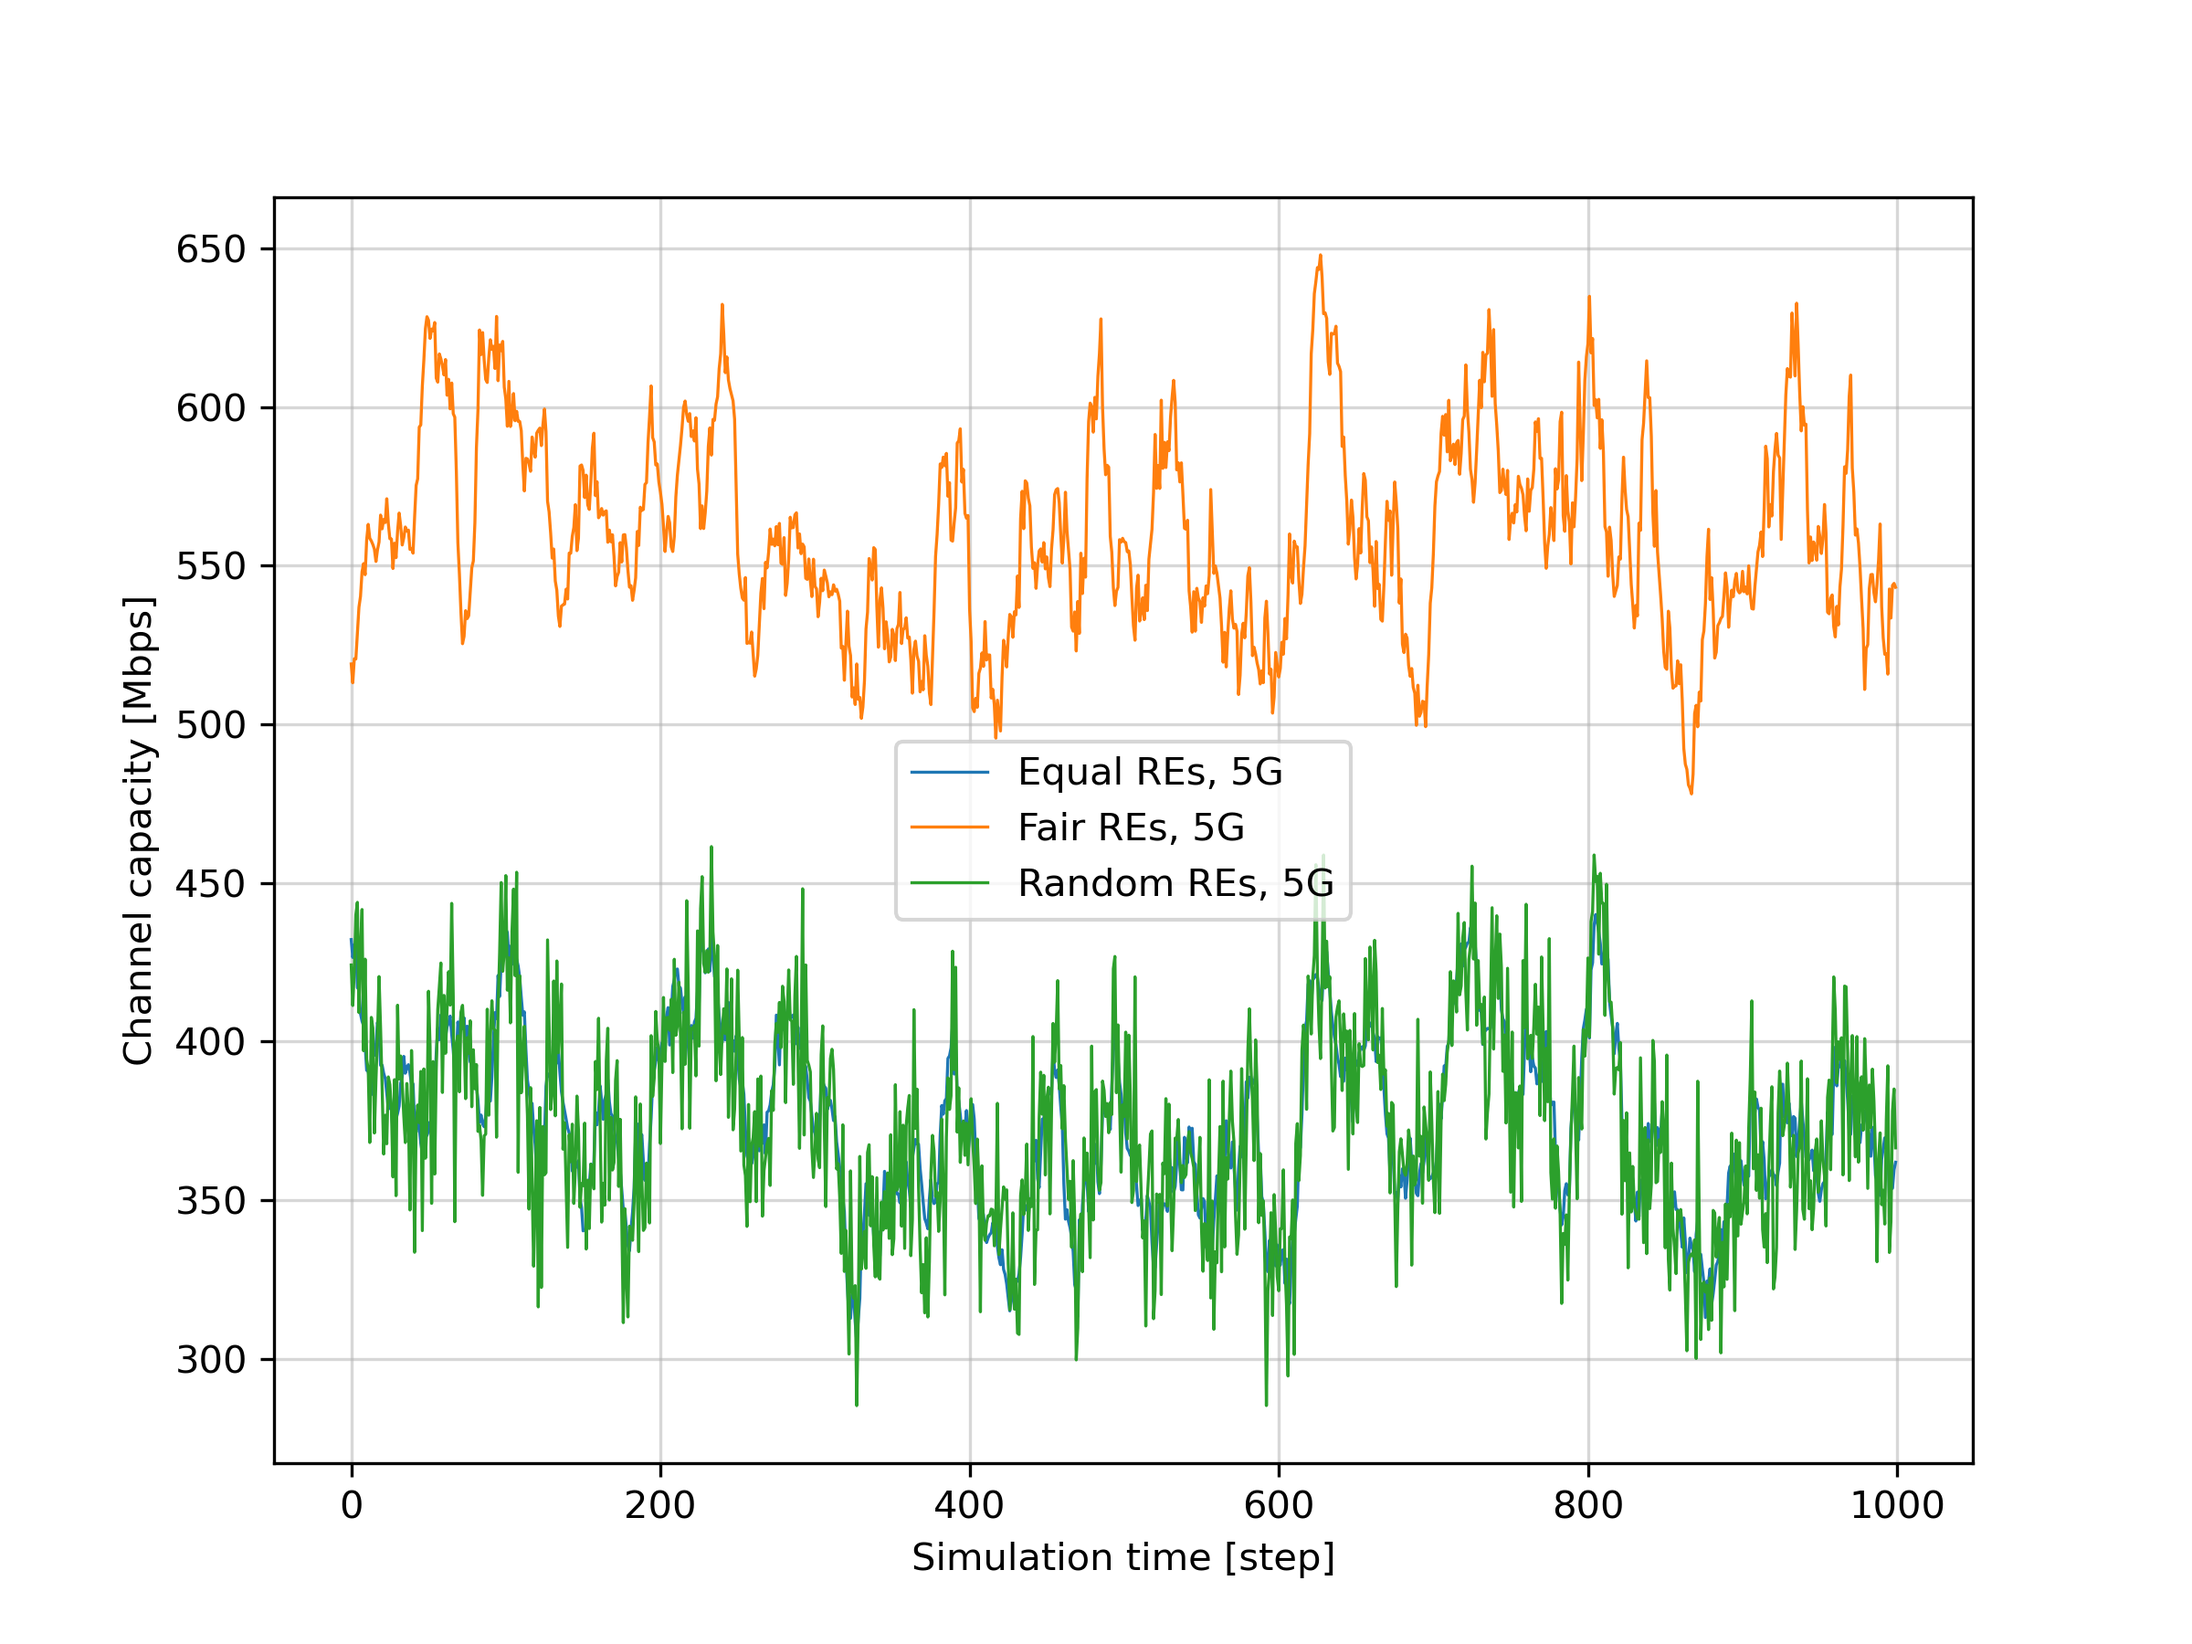
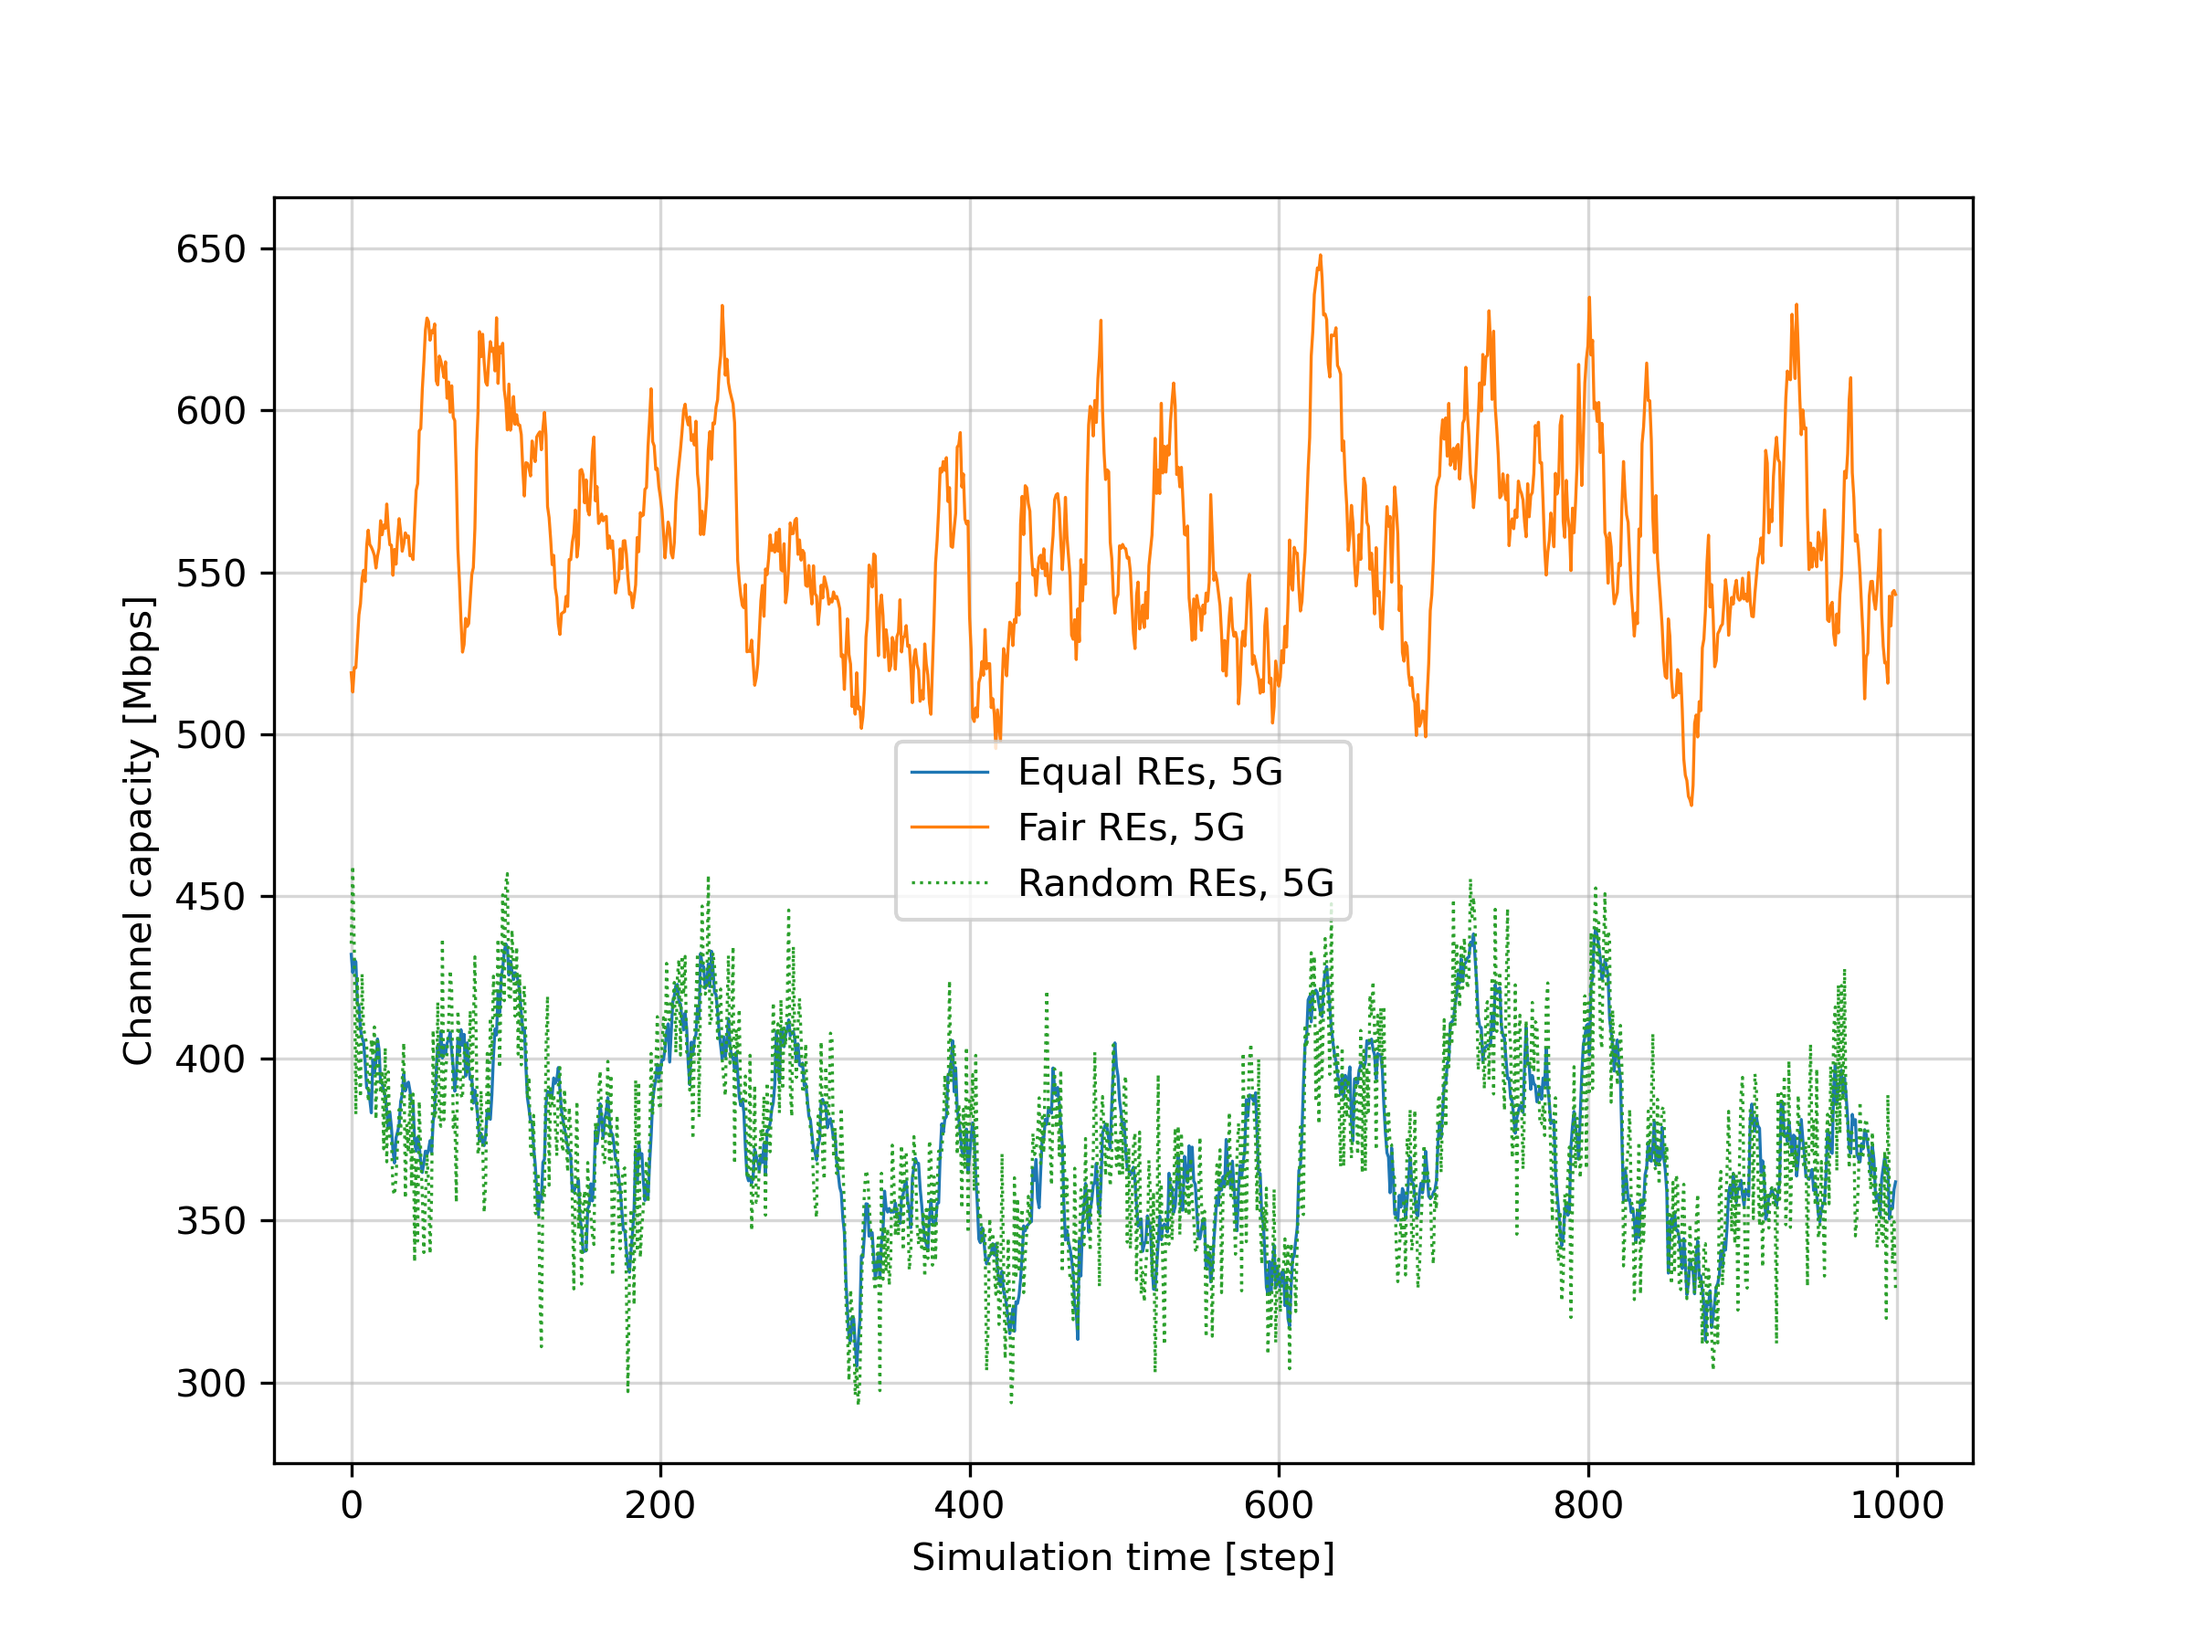
Week 11 w complete bonus

diff --git a/network.py b/network.py
@@ -122,8 +122,7 @@ class Network:
             BWs = (self.BW_Hz / SINR_sum) * np.array(SINR_list) 
 
             for i, ms in enumerate(connected_ms):
-                self.BW[ms] = BWs[i]
-                # self.BW[ms] = self.BW_Hz / len(connected_ms)  # equal BW for all connected MSs
+                self.BW[ms] = BWs[i]                
 
     def assign_REs_random(self):
         for bs in self.base_stations:
@@ -149,7 +148,7 @@ class Network:
             for ms in self.mobile_stations:
                 if self.connections[ms] == bs:
                     SINR_list.append(self.SINR_downlink[ms] + 10)  # shift to avoid zero SINR
-                    connected_ms.append(ms)            
+                    connected_ms.append(ms)         
 
             SINR_sum = np.sum(SINR_list)
             REs_list = (self.total_REs / SINR_sum) * np.array(SINR_list) 
@@ -169,6 +168,29 @@ class Network:
 
             for ms in connected_ms:
                 self.REs_per_ms[ms] = REs_per_ms
+
+    def total_capacity_same_capacity_5G(self):
+        capacity = 0
+        
+        for bs in self.base_stations:
+            connected_ms = []
+            efficiency_list = []
+
+            for ms in self.mobile_stations:
+                if self.connections[ms] == bs:
+                    efficiency = efficiency_5G(self.SINR_downlink[ms])  # in bits/RE
+                    if efficiency == 0: # no transmission possible
+                        continue
+
+                    efficiency_list.append(1/efficiency)
+                    connected_ms.append(ms)
+
+            efficiency_sum = np.sum(efficiency_list)
+
+            capacity_per_ms = (self.total_REs / efficiency_sum) # / len(connected_ms)            
+            capacity += capacity_per_ms * len(connected_ms)
+
+        return capacity # in bps
 
     def total_capacity_shannon(self):
         capacity = 0
@@ -256,7 +278,6 @@ class Network:
 
         self.base_stations = flying_BS_list  # Update network's base stations to flying BSs
         return flying_BS_list
-
     
     def print_to_file(self, file, PL = True, RSS = True, SNR = True, CONN = True, SINR = True):        
         if PL:

diff --git a/11-sim.py b/11-sim.py
@@ -85,6 +85,10 @@ capacities_equal_5G = np.zeros(sim_steps)
 network.assign_REs_equal()
 capacities_equal_5G[0] = network.total_capacity_5G()
 
+capacities_same_5G = np.zeros(sim_steps)
+# network.assign_REs_same_capacity()
+capacities_same_5G[0] = network.total_capacity_same_capacity_5G()
+
 # Iterate through different positions
 num_handovers = 0
 for i in range(sim_steps):
@@ -123,6 +127,10 @@ for i in range(sim_steps):
     network.assign_REs_equal()
     capacities_equal_5G[i] = network.total_capacity_5G()
 
+    # network.assign_REs_same_capacity()
+    capacities_same_5G[i] = network.total_capacity_same_capacity_5G()
+
+
 
 # DISPLAY RESULTS #
 out_folder = "11-out/"
@@ -143,10 +151,21 @@ fig.savefig(out_folder + "11-sim-channel.png", dpi=300)
 fig2, ax2 = plt.subplots(figsize=(8,6))
 ax2.plot(range(sim_steps), capacities_equal_5G * 1e-6, label=f"Equal REs, 5G", linewidth=0.8)
 ax2.plot(range(sim_steps), capacities_fair_5G * 1e-6, label=f"Fair REs, 5G", linewidth=0.8)
-ax2.plot(range(sim_steps), capacities_rand_5G * 1e-6, label=f"Random REs, 5G", linewidth=0.8)
+ax2.plot(range(sim_steps), capacities_rand_5G * 1e-6, linestyle="dotted", label=f"Random REs, 5G", linewidth=0.8)
 
 ax2.set_xlabel("Simulation time [step]")
 ax2.set_ylabel("Channel capacity [Mbps]")
 ax2.legend()
 ax2.grid(visible=True, alpha=0.5)
 fig2.savefig(out_folder + "11-sim-channel-bonus.png", dpi=300)
+
+fig3, ax3 = plt.subplots(figsize=(8,6))
+ax3.plot(range(sim_steps), capacities_same_5G * 1e-6, label=f"Same capacity REs, 5G", linewidth=0.8)
+ax3.plot(range(sim_steps), capacities_fair_5G * 1e-6, label=f"Fair REs, 5G", linewidth=0.8)
+ax3.plot(range(sim_steps), capacities_rand_5G * 1e-6, label=f"Random REs, 5G", linewidth=0.8)
+
+ax3.set_xlabel("Simulation time [step]")
+ax3.set_ylabel("Channel capacity [Mbps]")
+ax3.legend()
+ax3.grid(visible=True, alpha=0.5)
+fig3.savefig(out_folder + "11-sim-channel-bonus2.png", dpi=300)

diff --git a/11-sim-bonus.py b/11-sim-bonus.py
@@ -103,14 +103,14 @@ out_folder = "11-out/"
 os.makedirs(out_folder, exist_ok=True) # create folder if it does not exist
 out_file = out_folder + "11-sim-bonus-results.txt"
 with open(out_file, "w") as f:
-    f.write("Capacities with Base Stations only:\n")
-    f.write(f"Random BW allocation - Shannon: {cap_rand_shannon_BS/1e6:.2f} Mbps\n")
-    f.write(f"Fair BW allocation - Shannon: {cap_fair_shannon_BS/1e6:.2f} Mbps\n")
-    f.write(f"Random RE allocation - 5G: {cap_rand_5G_BS/1e6:.2f} Mbps\n")
-    f.write(f"Fair RE allocation - 5G: {cap_fair_5G_BS/1e6:.2f} Mbps\n\n")
+    f.write("Capacities with static Base Stations:\n")
+    f.write(f"Random BW allocation - Shannon:\t {cap_rand_shannon_BS/1e6:.2f} Mbps\n")
+    f.write(f"Fair BW allocation - Shannon:\t {cap_fair_shannon_BS/1e6:.2f} Mbps\n")
+    f.write(f"Random RE allocation - 5G:\t {cap_rand_5G_BS/1e6:.2f} Mbps\n")
+    f.write(f"Fair RE allocation - 5G:\t {cap_fair_5G_BS/1e6:.2f} Mbps\n\n")
 
     f.write("Capacities with Flying Base Station:\n")
-    f.write(f"Random BW allocation - Shannon: {cap_rand_shannon_FBS/1e6:.2f} Mbps\n")
-    f.write(f"Fair BW allocation - Shannon: {cap_fair_shannon_FBS/1e6:.2f} Mbps\n")
-    f.write(f"Random RE allocation - 5G: {cap_rand_5G_FBS/1e6:.2f} Mbps\n")
-    f.write(f"Fair RE allocation - 5G: {cap_fair_5G_FBS/1e6:.2f} Mbps\n")
+    f.write(f"Random BW allocation - Shannon:\t {cap_rand_shannon_FBS/1e6:.2f} Mbps\n")
+    f.write(f"Fair BW allocation - Shannon:\t {cap_fair_shannon_FBS/1e6:.2f} Mbps\n")
+    f.write(f"Random RE allocation - 5G:\t {cap_rand_5G_FBS/1e6:.2f} Mbps\n")
+    f.write(f"Fair RE allocation - 5G:\t {cap_fair_5G_FBS/1e6:.2f} Mbps\n")
